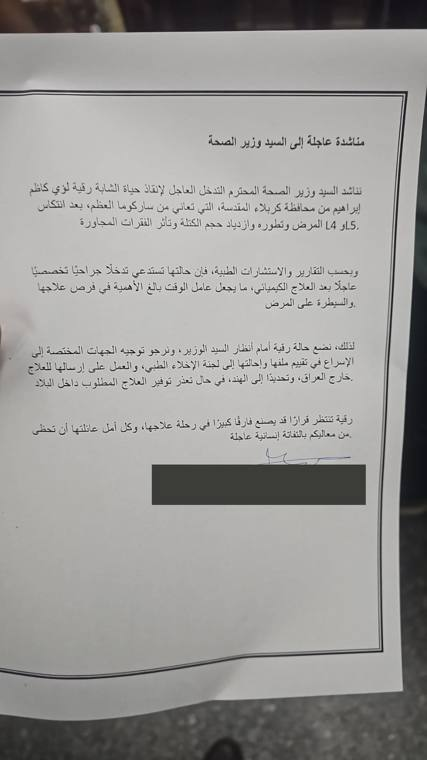
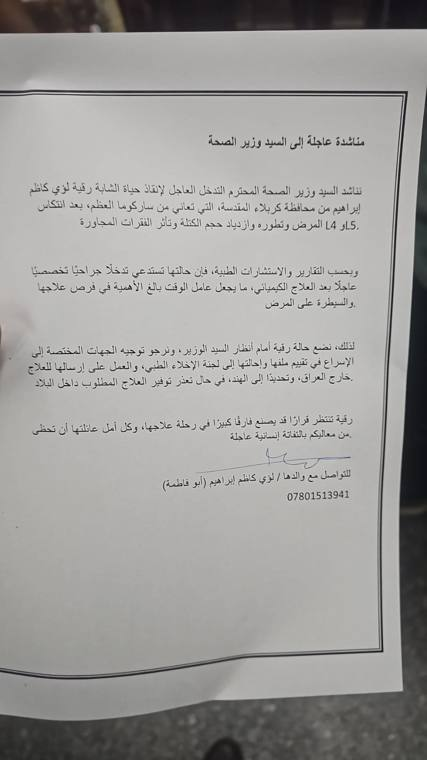
Show father's contact line in the minister appeal letter
Claude-Session: https://claude.ai/code/session_013LWjWpVy6yBK16R9vanxqP

Changed region(s): [[0.3349, 0.6053, 0.8829, 0.6658]]

diff --git a/assets/js/content.js b/assets/js/content.js
@@ -44,7 +44,7 @@ window.SITE = {
     { cat: "official", title: "وثيقة عدم توفر العملية داخل العراق",
       note: "مستشفى وارث الدولي لعلاج الأورام.", img: "", download: false },
     { cat: "official", title: "مناشدة إلى السيد وزير الصحة",
-      note: "طلب إحالة الملف إلى لجنة الإخلاء الطبي. حُجبت بيانات التواصل.",
+      note: "طلب إحالة الملف إلى لجنة الإخلاء الطبي.",
       img: "assets/img/docs/letter-minister.jpg", download: true },
     { cat: "scans", title: "تقرير PET/CT: التشخيص والتاريخ المرضي",
       note: "9 آب 2026. حُجبت البيانات الشخصية.",
